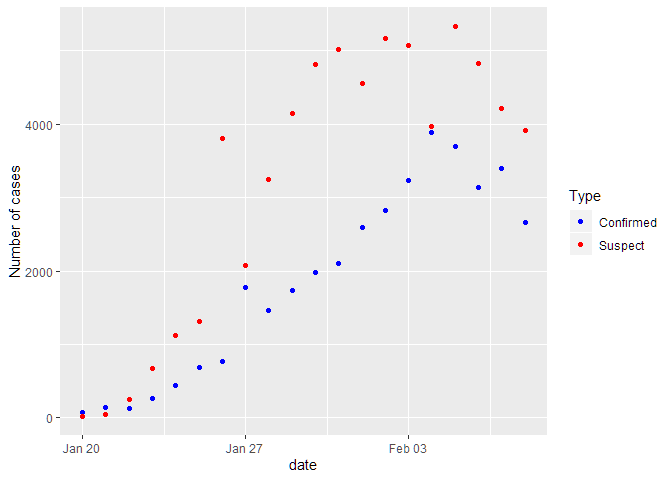
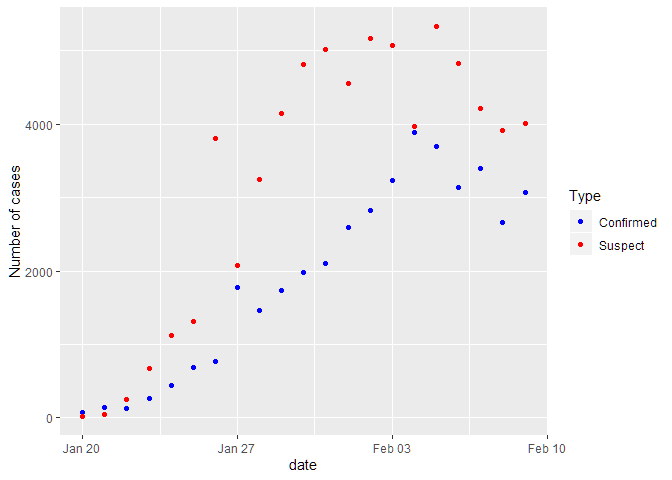
2/9 2020, evening update.

diff --git a/Report_20200206.md b/Report_20200206.md
@@ -46,7 +46,7 @@ The last updated time (Beijing Time)is
 x$lastUpdateTime
 ```
 
-    ## [1] "2020-02-09 08:44:55"
+    ## [1] "2020-02-10 08:04:57"
 
 Now we present the total number of confirmed and suspected respectively.
 
@@ -61,11 +61,12 @@ confimred and suspected. Because a big portion of suspected cases become
 confirmed cases.
 
 It is obvious that starting Jan. 28th, the increase of sum of confirmed
-and suspected case is on a straight line.
+and suspected case is on a straight line until Feb. 9th. The line is
+fitted with data during this period.
 
 ``` r
 dataDay <- dataDay %>% mutate(confandsusp = confirm + suspect)
-dataforfitting <- dataDay %>% filter(date > make_date(2020,1,27)) 
+dataforfitting <- dataDay %>% filter(date > make_date(2020,1,27) & date < make_date(2020,2,9)) 
 model <- lm(confandsusp ~ date, data=dataforfitting)
 plot(dataDay$date, dataDay$confandsusp, xlab = "Date", ylab = "confirmed + suspected" )
 abline(model)
